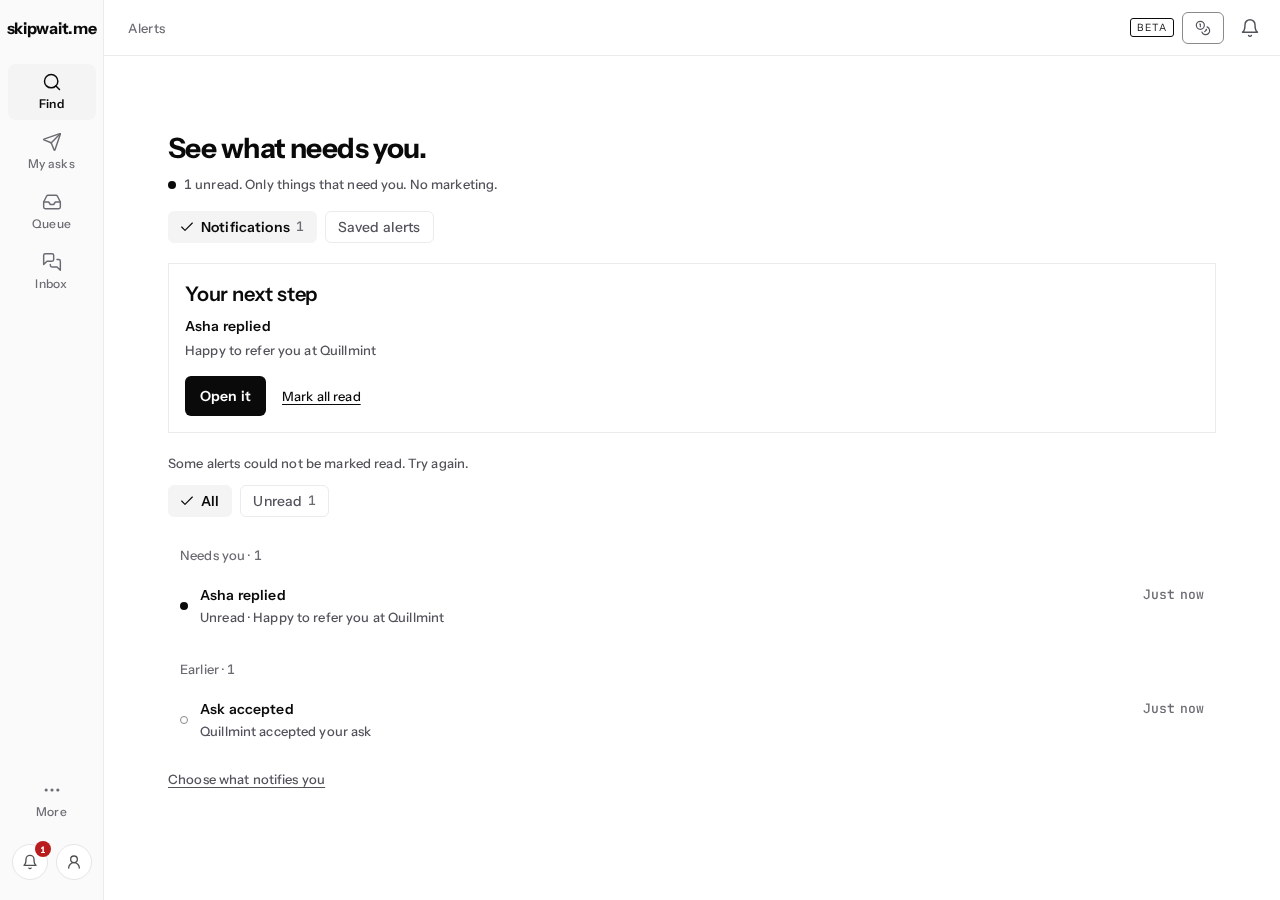
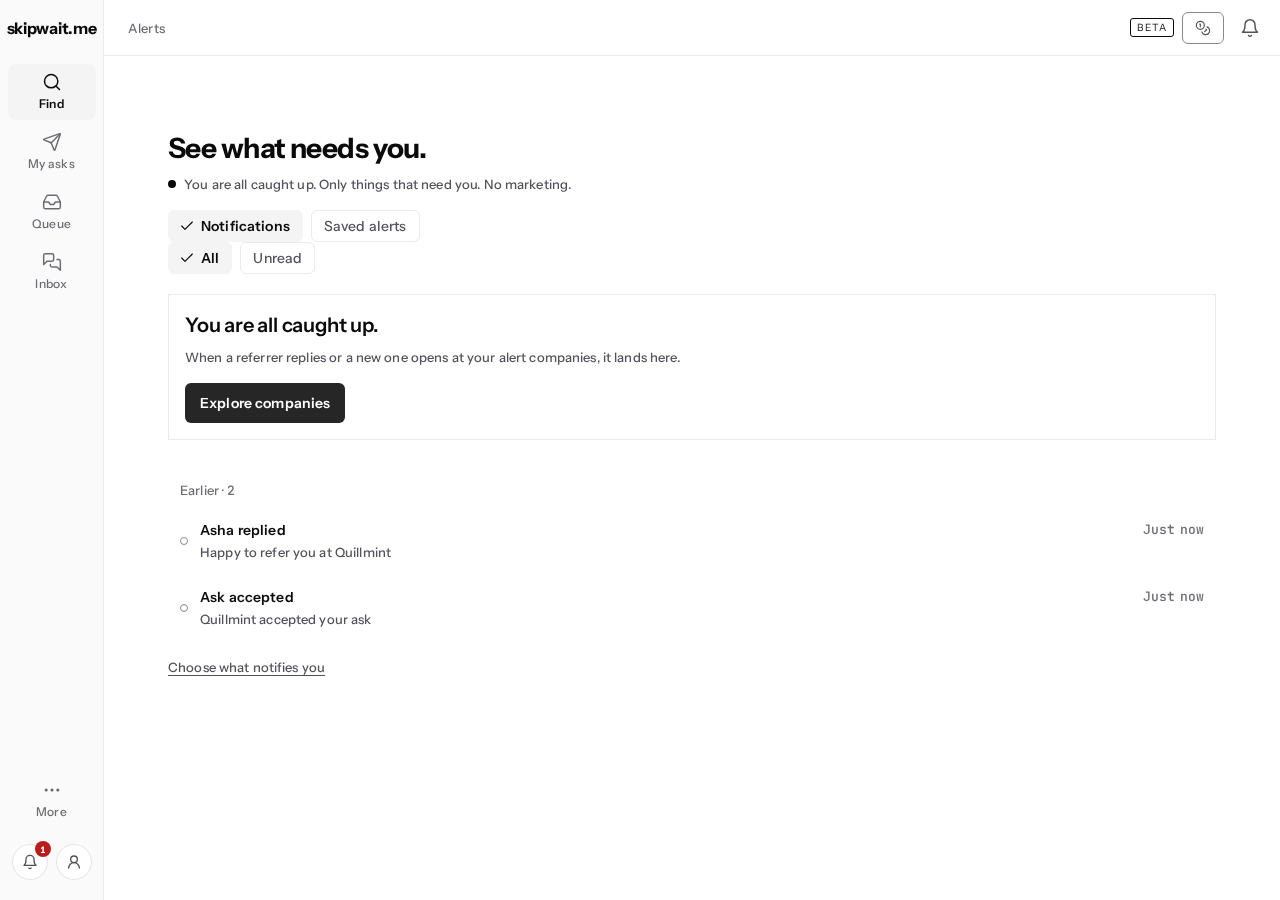
test(goal): mark-read fail-then-retry + in-flight block tests; success-state captures

diff --git a/client/src/pages/alertsGoal.test.tsx b/client/src/pages/alertsGoal.test.tsx
@@ -26,10 +26,17 @@ const items = [
   { id: 2, category: "message", title: "Asha replied", body: "Happy to refer you", readAt: null, createdAt: new Date().toISOString() },
   { id: 1, category: "status", title: "Ask accepted", body: "Quillmint accepted your ask", readAt: "2026-10-20T00:00:00Z", createdAt: "2026-10-20T00:00:00Z" },
 ];
-const serverState = { items: items as unknown[], ok: true };
+const serverState = { items: items as unknown[], ok: true, failOnce: [] as number[], block: null as null | (() => Promise<void>), readCalls: [] as { url: string; method?: string; credentials?: string; body?: unknown }[] };
 vi.stubGlobal("fetch", vi.fn(async (input: RequestInfo | URL, init?: RequestInit) => {
   const url = typeof input === "string" ? input : input.toString();
-  if (url.endsWith("/read") && init?.method === "POST") return { ok: serverState.ok, status: serverState.ok ? 200 : 500, json: async () => ({}) } as Response;
+  if (url.endsWith("/read") && init?.method === "POST") {
+    serverState.readCalls.push({ url, method: init.method, credentials: init.credentials as string | undefined });
+    if (serverState.block) await serverState.block();
+    const id = Number(/notifications\/(\d+)\/read/.exec(url)?.[1]);
+    const failAt = serverState.failOnce.indexOf(id);
+    if (failAt >= 0) { serverState.failOnce.splice(failAt, 1); return { ok: false, status: 500, json: async () => ({}) } as Response; }
+    return { ok: serverState.ok, status: serverState.ok ? 200 : 500, json: async () => ({}) } as Response;
+  }
   if (url === "/api/notifications") return { ok: true, status: 200, json: async () => ({ notifications: serverState.items }) } as Response;
   throw new Error("unexpected fetch " + url);
 }));
@@ -42,7 +49,7 @@ function renderPage() {
 }
 
 describe("goal alerts", () => {
-  beforeEach(() => { authState.isLoaded = true; authState.isSignedIn = true; flagState.on = true; serverState.items = [...items]; serverState.ok = true; goMock.mockReset(); });
+  beforeEach(() => { authState.isLoaded = true; authState.isSignedIn = true; flagState.on = true; serverState.items = [...items]; serverState.ok = true; serverState.failOnce = []; serverState.block = null; serverState.readCalls = []; goMock.mockReset(); });
   afterEach(() => { cleanup(); });
 
   it("opens on the goal with the newest unread as the next step", async () => {
@@ -67,6 +74,38 @@ describe("goal alerts", () => {
     renderPage();
     fireEvent.click(await screen.findByRole("button", { name: "Mark all read" }));
     await waitFor(() => expect(screen.queryByRole("heading", { name: /Needs you/ })).toBeNull());
+  });
+
+  it("posts one read request per unread alert, then retries only the failure", async () => {
+    serverState.items = [
+      { id: 2, category: "message", title: "Asha replied", body: "Happy to refer you", readAt: null, createdAt: new Date().toISOString() },
+      { id: 3, category: "status", title: "Credit added", body: "1 credit", readAt: null, createdAt: new Date().toISOString() },
+    ];
+    serverState.failOnce = [3];
+    renderPage();
+    fireEvent.click(await screen.findByRole("button", { name: "Mark all read" }));
+    await screen.findByText("Some alerts could not be marked read. Try again.");
+    expect(serverState.readCalls.map(call => call.url).sort()).toEqual(["/api/notifications/2/read", "/api/notifications/3/read"]);
+    for (const call of serverState.readCalls) { expect(call.method).toBe("POST"); expect(call.credentials).toBe("include"); }
+    expect((await screen.findAllByText("Credit added")).length).toBeGreaterThan(0);
+    fireEvent.click(await screen.findByRole("button", { name: "Mark all read" }));
+    await waitFor(() => expect(screen.queryByText("Some alerts could not be marked read. Try again.")).toBeNull());
+    await waitFor(() => expect(screen.queryByRole("heading", { name: /Needs you/ })).toBeNull());
+    expect(serverState.readCalls.map(call => call.url)).toEqual(["/api/notifications/2/read", "/api/notifications/3/read", "/api/notifications/3/read"]);
+  });
+
+  it("blocks a second mark-all while the first is still in flight", async () => {
+    let release: () => void = () => undefined;
+    serverState.block = () => new Promise<void>(resolve => { release = resolve; });
+    renderPage();
+    const commit = await screen.findByRole("button", { name: "Mark all read" });
+    fireEvent.click(commit);
+    await waitFor(() => expect(serverState.readCalls.length).toBe(1));
+    fireEvent.click(commit);
+    fireEvent.click(commit);
+    release();
+    await waitFor(() => expect(screen.queryByRole("heading", { name: /Needs you/ })).toBeNull());
+    expect(serverState.readCalls.map(call => call.url)).toEqual(["/api/notifications/2/read"]);
   });
 
   it("shows the caught-up next step when nothing is unread", async () => {
